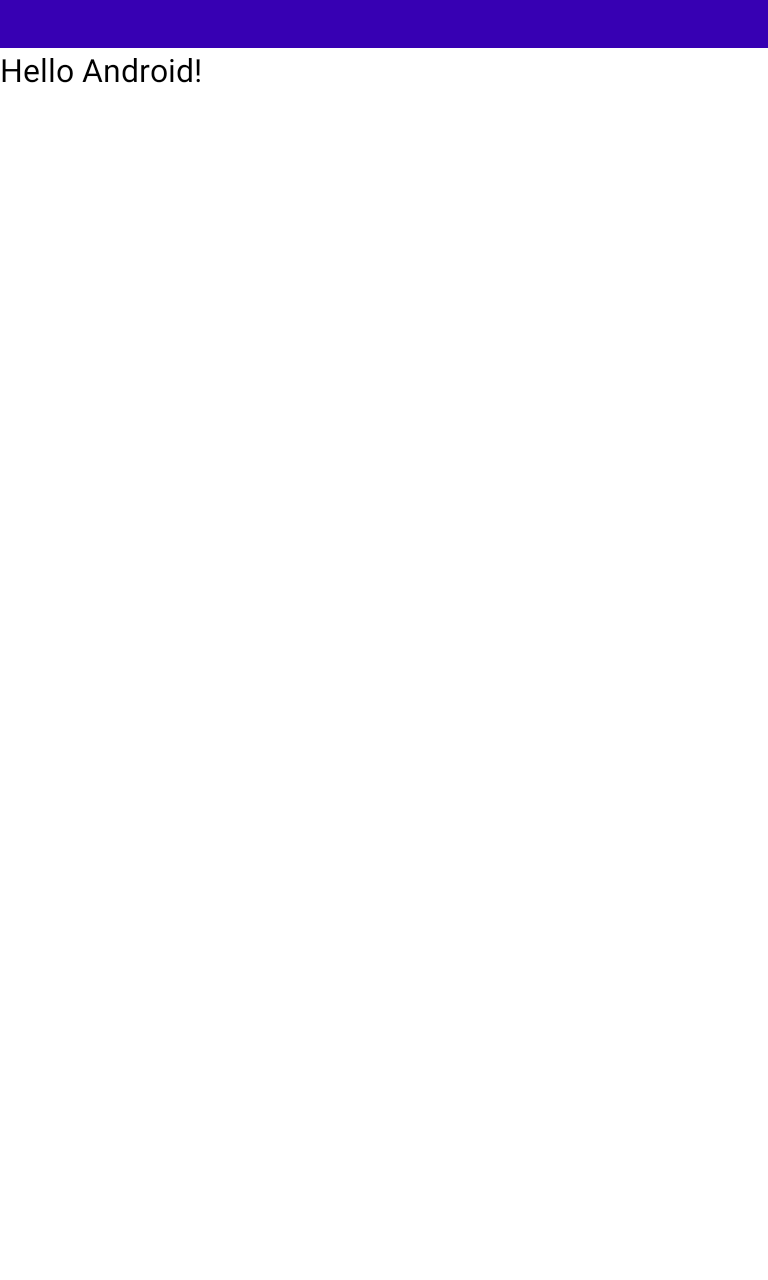
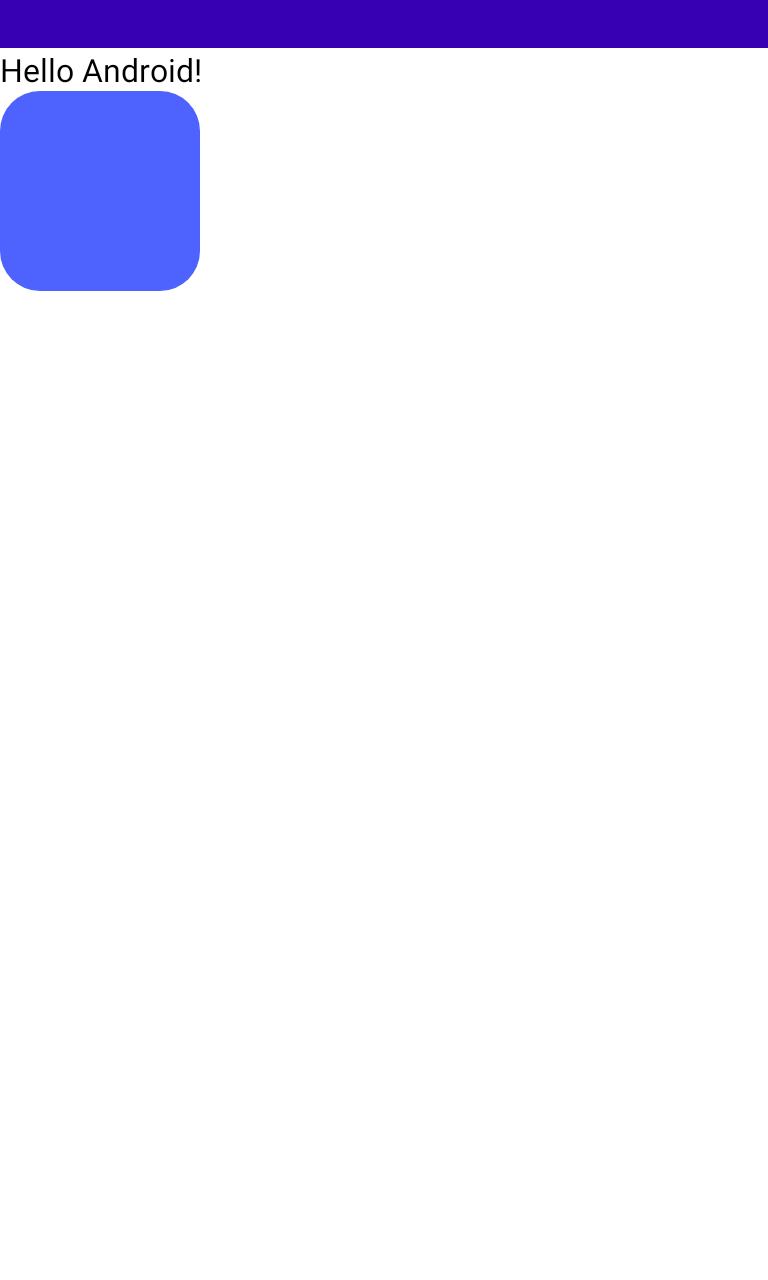
Add some examples of tests failing due to any error in the bitmap generated by compose

Changed region(s): [[0.0, 0.0625, 0.2812, 0.25]]

diff --git a/shot-consumer-compose/app/src/main/java/com/karumi/shotconsumercompose/MainActivity.kt b/shot-consumer-compose/app/src/main/java/com/karumi/shotconsumercompose/MainActivity.kt
@@ -9,6 +9,14 @@ import androidx.compose.runtime.Composable
 import androidx.compose.ui.platform.setContent
 import androidx.ui.tooling.preview.Preview
 import com.karumi.shotconsumercompose.ui.ShotConsumerComposeTheme
+import androidx.compose.foundation.shape.RoundedCornerShape
+import androidx.compose.ui.unit.dp
+import androidx.compose.foundation.Box
+import androidx.compose.foundation.ScrollableColumn
+import androidx.compose.ui.Modifier
+import androidx.compose.ui.graphics.Color
+import androidx.compose.foundation.background
+import androidx.compose.foundation.layout.*
 
 class MainActivity : AppCompatActivity() {
     override fun onCreate(savedInstanceState: Bundle?) {
@@ -16,8 +24,9 @@ class MainActivity : AppCompatActivity() {
         setContent {
             ShotConsumerComposeTheme {
                 // A surface container using the 'background' color from the theme
-                Surface(color = MaterialTheme.colors.background) {
+                ScrollableColumn {
                     Greeting("Android")
+                    RoundedCornersBox()
                 }
             }
         }
@@ -35,4 +44,10 @@ fun DefaultPreview() {
     ShotConsumerComposeTheme {
         Greeting("Android")
     }
+}
+
+@Preview
+@Composable
+fun RoundedCornersBox() {
+    Box(Modifier.background(color = Color(0xFF4E62FD), shape = RoundedCornerShape(size = 20.dp)).width(100.dp).height(100.dp))
 }

diff --git a/shot-consumer-compose/app/src/androidTest/java/com/karumi/shotconsumercompose/RoundedCornersBoxScreenshotTest.kt b/shot-consumer-compose/app/src/androidTest/java/com/karumi/shotconsumercompose/RoundedCornersBoxScreenshotTest.kt
@@ -1,0 +1,32 @@
+package com.karumi.shotconsumercompose
+
+import androidx.compose.material.MaterialTheme
+import androidx.compose.material.Surface
+import androidx.compose.runtime.Composable
+import androidx.ui.test.createComposeRule
+import com.karumi.shot.ScreenshotTest
+import com.karumi.shotconsumercompose.ui.ShotConsumerComposeTheme
+import org.junit.Rule
+import androidx.ui.test.onRoot
+import org.junit.Test
+
+class RoundedCornersBoxScreenshotTest : ScreenshotTest {
+
+    @get:Rule
+    val composeRule = createComposeRule()
+
+    @Test
+    fun rendersTheDefaultComponent() {
+        renderComponent()
+        compareScreenshot(composeRule.onRoot())
+    }
+
+    private fun renderComponent(greeting: String? = null) {
+        composeRule.setContent {
+            ShotConsumerComposeTheme {
+                RoundedCornersBox()
+            }
+        }
+    }
+
+}
